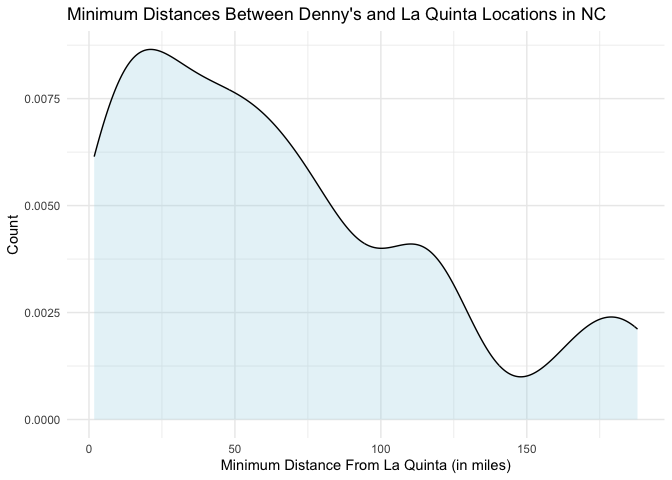
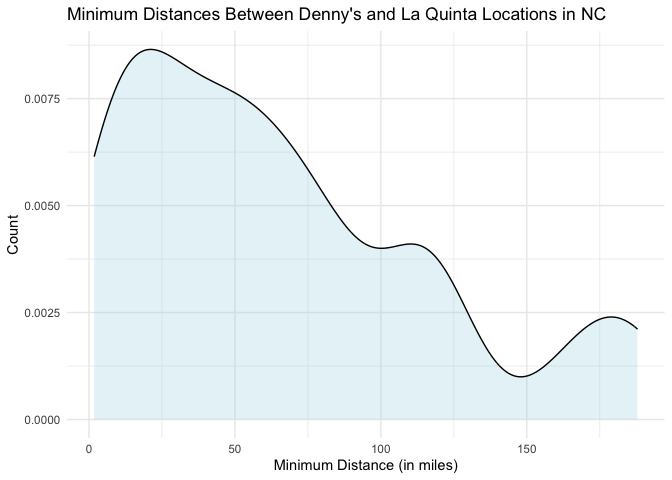
edited & finalized lab 5

Changed region(s): [[0.3125, 0.9375, 0.75, 1.0]]

diff --git a/lab-05.md b/lab-05.md
@@ -53,15 +53,6 @@ Denny’s and La Quinta locations in Alaska.
 dn_lq_ak <- full_join(dn_ak, lq_ak,
   by = "state"
 )
-```
-
-    ## Warning in full_join(dn_ak, lq_ak, by = "state"): Detected an unexpected many-to-many relationship between `x` and `y`.
-    ## ℹ Row 1 of `x` matches multiple rows in `y`.
-    ## ℹ Row 1 of `y` matches multiple rows in `x`.
-    ## ℹ If a many-to-many relationship is expected, set `relationship =
-    ##   "many-to-many"` to silence this warning.
-
-``` r
 dn_lq_ak
 ```
 
@@ -79,9 +70,8 @@ dn_lq_ak
 ### Exercise 4
 
 There are six observations in the joined data frame. The names of the
-variables are address, city, state, zip, longitude, latitude, address,
-city, zip, each with a version followed by .x and .y (with the exception
-of state).
+variables are address, city, state, zip, longitude, and latitude, each
+with a version followed by .x and .y (with the exception of state).
 
 ### Exercise 5
 
@@ -127,7 +117,7 @@ dn_lq_ak <- dn_lq_ak %>%
 ggplot(data = dn_lq_ak, aes(x = min_distance)) +
   geom_density(fill = "lightblue", alpha = 0.3) +
   labs(title = "Minimum Distances Between Denny's and La Quinta Locations in AK",
-       x = "Minimum Distance From La Quinta (in miles)",
+       x = "Minimum Distance (in miles)",
        y = "Count",
        ) +
   theme_minimal() 
@@ -195,15 +185,6 @@ Carolina.
 dn_lq_nc <- full_join(dn_nc, lq_nc,
   by = "state"
 )
-```
-
-    ## Warning in full_join(dn_nc, lq_nc, by = "state"): Detected an unexpected many-to-many relationship between `x` and `y`.
-    ## ℹ Row 1 of `x` matches multiple rows in `y`.
-    ## ℹ Row 1 of `y` matches multiple rows in `x`.
-    ## ℹ If a many-to-many relationship is expected, set `relationship =
-    ##   "many-to-many"` to silence this warning.
-
-``` r
 dn_lq_nc
 ```
 
@@ -245,7 +226,7 @@ dn_lq_nc <- dn_lq_nc %>%
 ggplot(data = dn_lq_nc, aes(x = min_distance)) +
   geom_density(fill = "lightblue", alpha = 0.3) +
   labs(title = "Minimum Distances Between Denny's and La Quinta Locations in NC",
-       x = "Minimum Distance From La Quinta (in miles)",
+       x = "Minimum Distance (in miles)",
        y = "Count",
        ) +
   theme_minimal() 
@@ -311,15 +292,6 @@ There are 200 Denny’s locations and 237 La Quinta locations in Texas.
 dn_lq_tx <- full_join(dn_tx, lq_tx,
   by = "state"
 )
-```
-
-    ## Warning in full_join(dn_tx, lq_tx, by = "state"): Detected an unexpected many-to-many relationship between `x` and `y`.
-    ## ℹ Row 1 of `x` matches multiple rows in `y`.
-    ## ℹ Row 1 of `y` matches multiple rows in `x`.
-    ## ℹ If a many-to-many relationship is expected, set `relationship =
-    ##   "many-to-many"` to silence this warning.
-
-``` r
 dn_lq_tx
 ```
 
@@ -361,7 +333,7 @@ dn_lq_tx <- dn_lq_tx %>%
 ggplot(data = dn_lq_tx, aes(x = min_distance)) +
   geom_density(fill = "lightblue", alpha = 0.3) +
   labs(title = "Minimum Distances Between Denny's and La Quinta Locations in TX",
-       x = "Minimum Distance From La Quinta (in miles)",
+       x = "Minimum Distance (in miles)",
        y = "Count",
        ) +
   theme_minimal() 
@@ -396,8 +368,8 @@ max(dn_lq_tx$min_distance)
     ## [1] 60.582
 
 The distribution of minimum distances for Texas is very right-skewed.
-Most of the minimum distances are quite low (between 3 and 6 miles), but
-the highest minimum distance is 60.58 miles.
+Most of the minimum distances are quite low (centered around 3-6 miles),
+but the highest minimum distance is 60.58 miles.
 
 ### Exercise 11 (state of choice: Arizona)
 
@@ -427,15 +399,6 @@ There are 83 Denny’s locations and 18 La Quinta locations in Arizona.
 dn_lq_az <- full_join(dn_az, lq_az,
   by = "state"
 )
-```
-
-    ## Warning in full_join(dn_az, lq_az, by = "state"): Detected an unexpected many-to-many relationship between `x` and `y`.
-    ## ℹ Row 1 of `x` matches multiple rows in `y`.
-    ## ℹ Row 1 of `y` matches multiple rows in `x`.
-    ## ℹ If a many-to-many relationship is expected, set `relationship =
-    ##   "many-to-many"` to silence this warning.
-
-``` r
 dn_lq_az
 ```
 
@@ -477,7 +440,7 @@ dn_lq_az <- dn_lq_az %>%
 ggplot(data = dn_lq_az, aes(x = min_distance)) +
   geom_density(fill = "lightblue", alpha = 0.3) +
   labs(title = "Minimum Distances Between Denny's and La Quinta Locations in AZ",
-       x = "Minimum Distance From La Quinta (in miles)",
+       x = "Minimum Distance (in miles)",
        y = "Count",
        ) +
   theme_minimal() 
